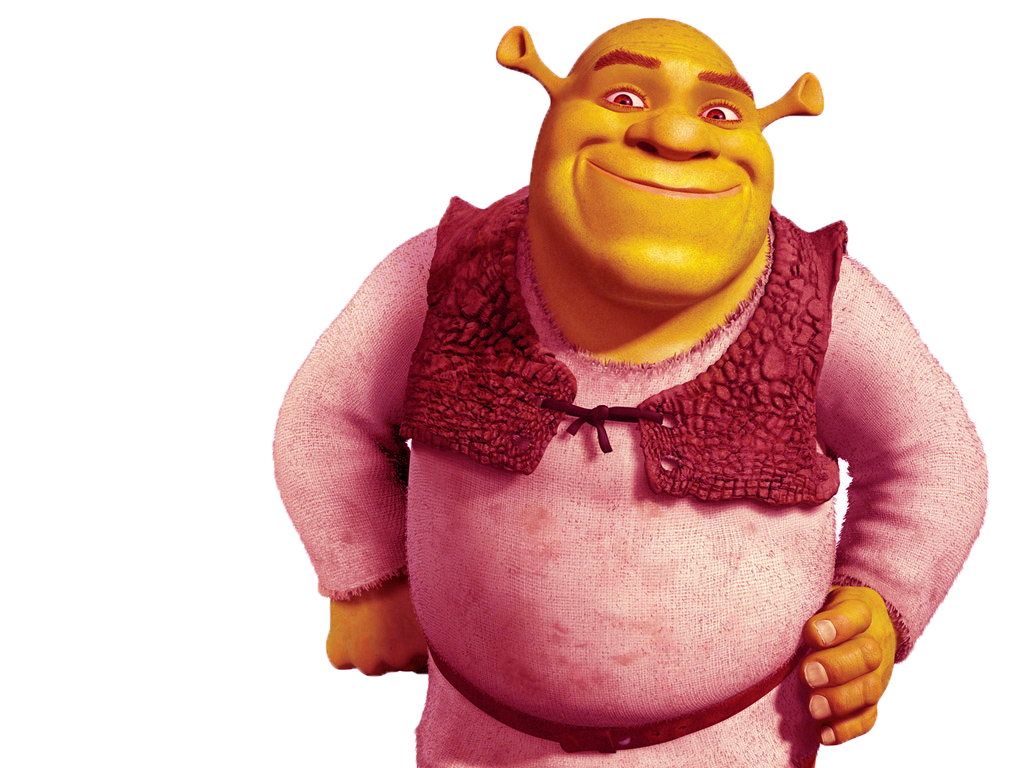
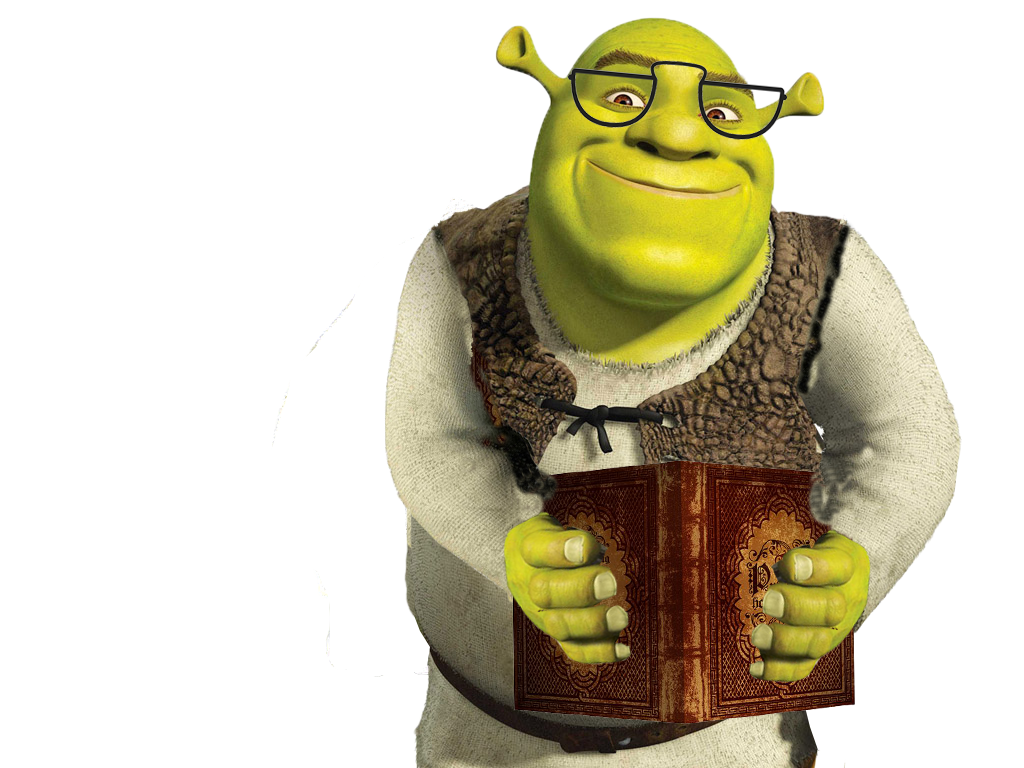
made a working image change button right now it changes to a shrek telling a story

diff --git a/shrekmenu.py b/shrekmenu.py
@@ -5,17 +5,35 @@ root = Tk()
 root.title("Shrek chat box")
 root.resizable(False, False)
 
+img=1
+path="img"+str(img)+".png" 
+
+#bg image
+shrekImage = PhotoImage(file=path)
+print(path)
+shreklabel = Label(root, image=shrekImage)
+shreklabel.grid(row=0)
+
+#bg image change
+def setImg():
+    global img
+    global path
+    img+=1
+    path="img"+str(img)+".png" 
+    print(path)
+    #shrekImage.file=path
+    global shrekImage
+    shrekImage = PhotoImage(file=path)
+    shreklabel.configure(image=shrekImage)
+    
 
 #func for text input
 def buttonFunction():
-    print("Shrek")
+    global img
+    global path
+    setImg()
 
-img=1
 
-#bg image
-shrekImage = PhotoImage(file="img"+str(img)+".png" )
-shreklabel = Label(root, image=shrekImage)
-shreklabel.grid(row=0)
 
 #speech bubble
 speechImage = PhotoImage(file="speechBubble.png" )
@@ -44,7 +62,9 @@ b.grid(row=2)
 
 #shrekvoice.grid_remove() #hide element 
 
+#setImg() #set bg image on run 
 root.mainloop()
+
 
 
 
